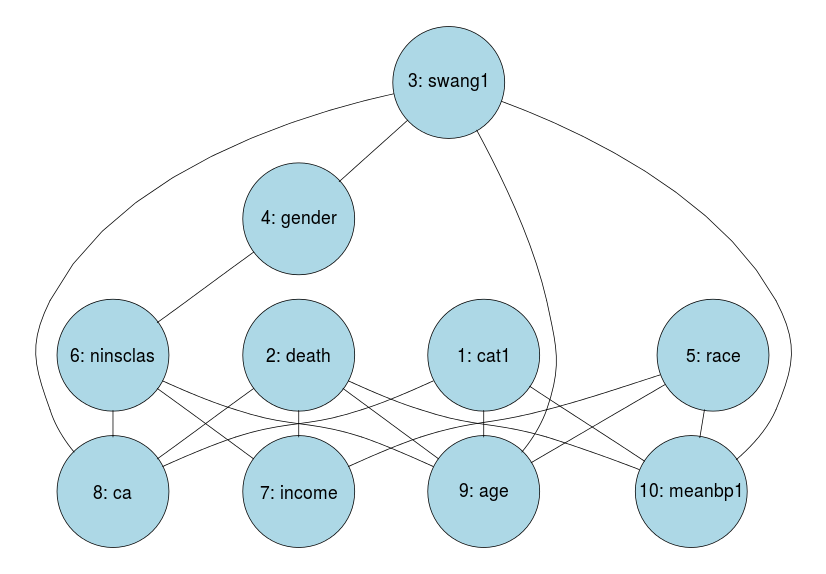
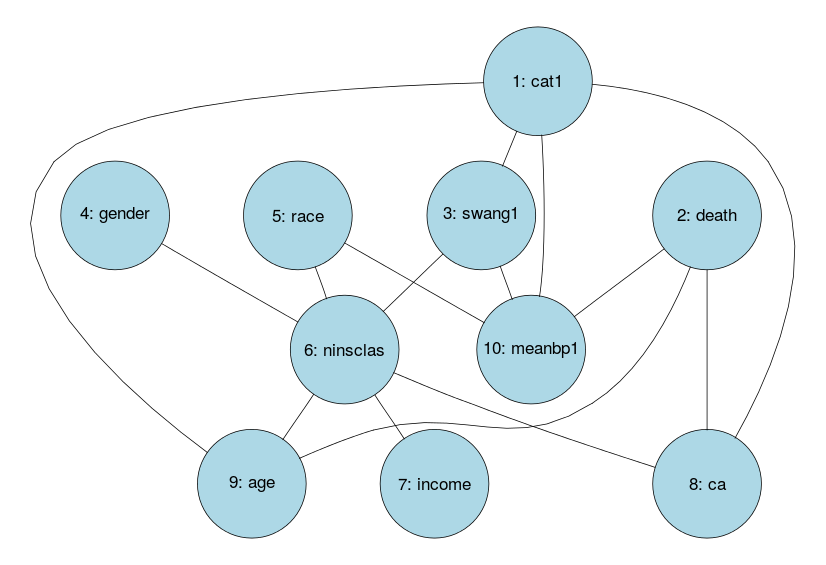
Bug fixed in gm.search and report updated except for (h)

diff --git a/report/report.tex b/report/report.tex
@@ -42,11 +42,10 @@ The number of parameters of the saturated model equals the number of cells in th
 
 \section*{c}
 \paragraph{Cliques}
-$\set{1,8}$, $\set{1,9}$, $\set{1,10}$, $\set{2,7}$, $\set{2,8}$, $\set{2,9}$, $\set{2,10}$,
-$\set{4,3}$, $\set{4,6}$, $\set{5,7}$, $\set{5,9}$, $\set{5,10}$, $\set{7,6}$, $\set{8,3}$,
-$\set{8,6}$, $\set{9,3}$, $\set{9,6}$, $\set{10,3}$
+$\set{1,3,10}$, $\set{1,8}$, $\set{1,9}$, $\set{2,8}$, $\set{2,9}$, $\set{2,10}$, $\set{3,6}$,
+$\set{4,6}$, $\set{5,6}$, $\set{5,10}$, $\set{6,7}$, $\set{6,8}$, $\set{6, 9}$
 
-\paragraph{BIC Score} 16000.28
+\paragraph{BIC Score} 15841.66
 
 \paragraph{Graph} See Figure~\ref{fig:c}
 
@@ -58,15 +57,15 @@ $\set{8,6}$, $\set{9,3}$, $\set{9,6}$, $\set{10,3}$
 \end{figure}
 
 \section*{d}
-Income and gender are independent given ninsclas and swang1, because of the separator property.
-To estimate whether a patient will survive, we only need ca, income, age and meanbp1, because
+Income and gender are independent given ninsclas, because of the separator property.
+To predict whether a patient will survive, we only need ca, age and meanbp1, because
 death is independent of all other variables when these are given.
 
 \section*{e}
 \paragraph{Cliques}
-$\set{4,3}$, $\set{4,6}$, $\set{6,7}$, $\set{6,8}$, $\set{6,9}$, $\set{7,2}$, $\set{7,5}$,
-$\set{8,1}$, $\set{8,2}$, $\set{8,3}$, $\set{9,1}$, $\set{9,2}$, $\set{9,3}$, $\set{9,5}$,
-$\set{10,1}$, $\set{10,2}$, $\set{10,3}$, $\set{10,5}$,
+$\set{1,3,10}$, $\set{1,8}$, $\set{2,7}$, $\set{2,8}$, $\set{2,9}$, $\set{2,10}$,
+$\set{3,4}$, $\set{3,9}$, $\set{4,6}$, $\set{5,7}$, $\set{5,9}$, $\set{5,10}$,
+$\set{6,7}$, $\set{6,8}$, $\set{6,9}$
 
 \paragraph{BIC Score} 15850.53
 
@@ -83,41 +82,42 @@ This model has a lower (thus better) BIC score than the model generated in c.
 So this model is considered to be a better model.
 
 \section*{f}
-\subsection*{From empty graph}
+In both cases the algorithm gives the same result.
+
 \paragraph{Cliques}
-$\set{1,2,8}$, $\set{2,1,9}$, $\set{2,1,10}$, $\set{2,7}$, $\set{3,1,9}$, $\set{3,1,10}$,
-$\set{3,6,9}$, $\set{4,1,8}$, $\set{4,1,10}$, $\set{4,7,6}$, $\set{4,8,6}$, $\set{5,7,6}$,
-$\set{5,9,6}$, $\set{5,10}$
+$\set{1,2,8}$, $\set{1,2,9}$, $\set{1,2,10}$, $\set{1,3,9}$, $\set{1,3,10}$, $\set{1,4,8}$,
+$\set{1,4,10}$, $\set{3,6,9}$, $\set{4,5,6}$, $\set{4,5,10}$, $\set{4,8,6}$, $\set{7,2}$,
+$\set{7,5,6}$, $\set{9,5,6}$
 
-\paragraph{AIC Score} 14284.21
+\paragraph{AIC Score} 14278.21
 
-\paragraph{Graph} See Figure~\ref{fig:f1}
+\paragraph{Graph} See Figure~\ref{fig:f}
 
 \begin{figure}[H]
     \centering
-    \includegraphics[width=0.8\linewidth]{f1.png}
-    \caption{Independence graph of backward forward search from empty graph using AIC.}
-\label{fig:f1}
+    \includegraphics[width=0.8\linewidth]{f.png}
+    \caption{Independence graph of backward forward search from empty graph or complete graph using AIC.}
+\label{fig:f}
 \end{figure}
 
-\subsection*{From complete graph}
-\paragraph{Cliques}
-$\set{1,2,8}$, $\set{1,2,10}$, $\set{1,4,3}$, $\set{1,4,8}$, $\set{1,6}$, $\set{1,10,3}$,
-$\set{7,2}$, $\set{7,3,4}$, $\set{7,5,6}$, $\set{8,2,9}$, $\set{8,4,9}$, $\set{9,3,4}$,
-$\set{9,5,6}$, $\set{10,5}$
+%\subsection*{From complete graph}
+%\paragraph{Cliques}
+%$\set{1,2,8}$, $\set{1,2,10}$, $\set{1,4,3}$, $\set{1,4,8}$, $\set{1,6}$, $\set{1,10,3}$,
+%$\set{7,2}$, $\set{7,3,4}$, $\set{7,5,6}$, $\set{8,2,9}$, $\set{8,4,9}$, $\set{9,3,4}$,
+%$\set{9,5,6}$, $\set{10,5}$
 
-\paragraph{AIC Score} 14341.65
+%\paragraph{AIC Score} 14278.21
 
-\paragraph{Graph} See Figure~\ref{fig:f2}
+%\paragraph{Graph} See Figure~\ref{fig:f2}
 
-\begin{figure}[H]
-    \centering
-    \includegraphics[width=0.8\linewidth]{f2.png}
-    \caption{Independence graph of backward forward search from complete graph using AIC.}
-\label{fig:f2}
-\end{figure}
+%\begin{figure}[H]
+    %\centering
+    %\includegraphics[width=0.8\linewidth]{f2.png}
+    %\caption{Independence graph of backward forward search from complete graph using AIC.}
+%\label{fig:f2}
+%\end{figure}
 
-The two resulting models are almost the same, but there are some small differences.
+%The two resulting models are almost the same, but there are some small differences.
 
 \section*{g}
 The models found with AIC are more complex than the models found with BIC.

diff --git a/README.md b/README.md
@@ -1,2 +1,4 @@
 datamining2
 ===========
+
+
